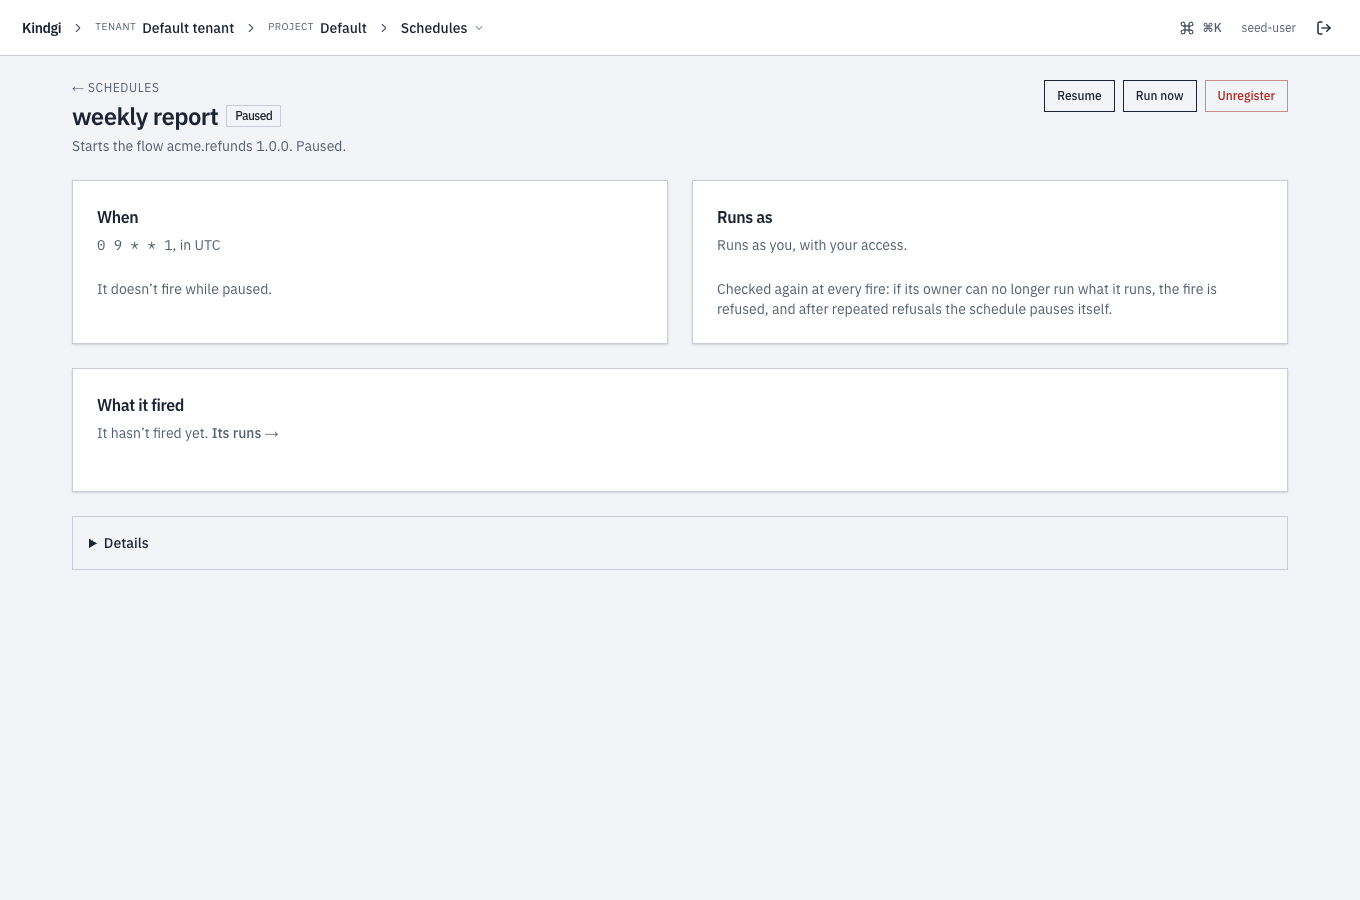
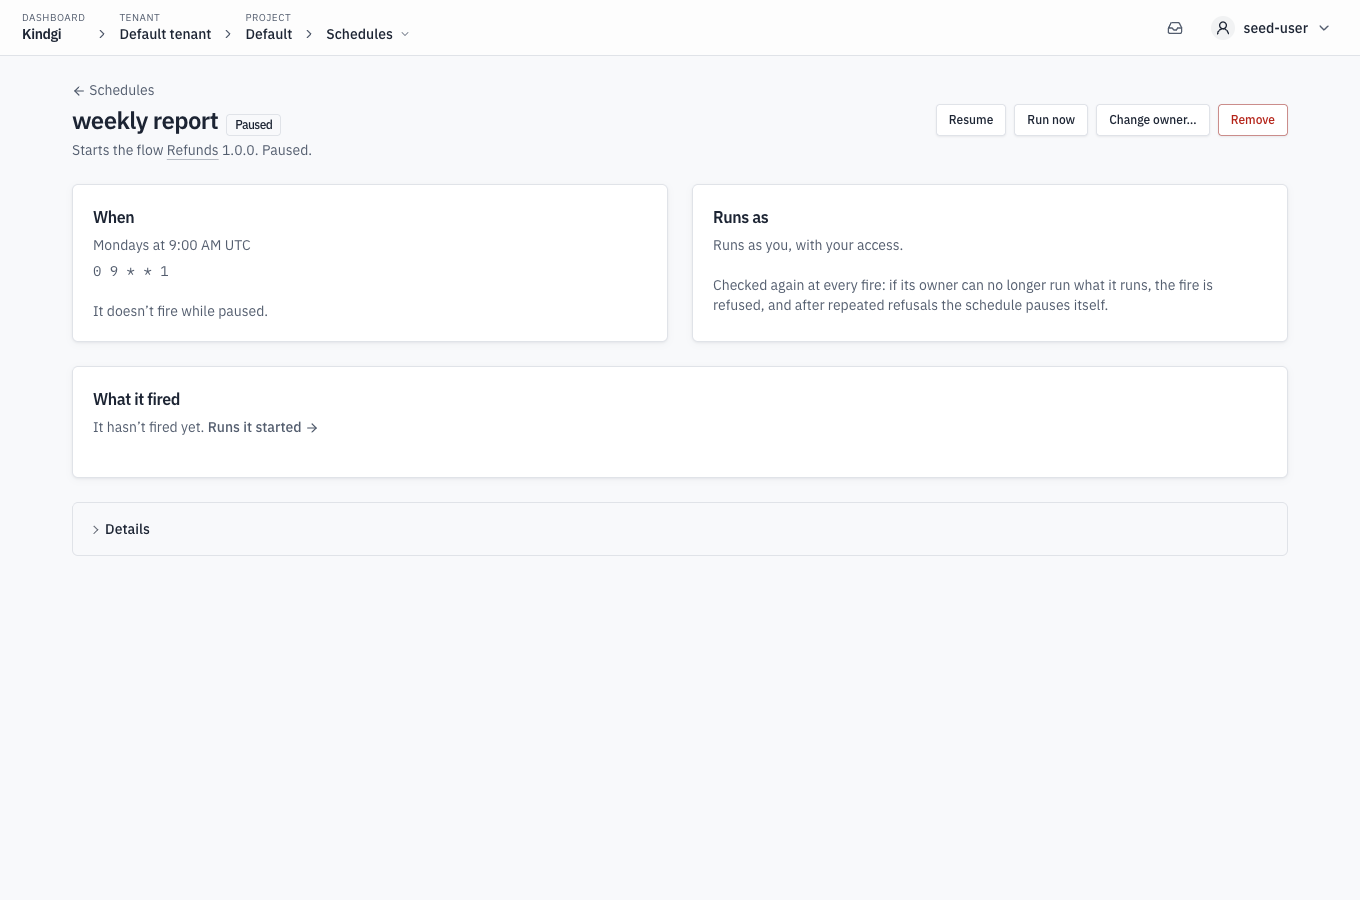
docs(site): the console's Times and Theme, and its webhooks and schedule pages as they read now
- Sign in to the console gains "The menu under your name": My access, Docs
  and the deployment's own links, Theme (System, Light or Dark), Times
  (Local with your city, or UTC) and Sign out. Each time names its zone, a
  few stay in UTC and say so, and the choice is kept in this browser.
- Webhook events: the console section is Outgoing webhooks, which has no
  headline and no longer says times are UTC. Remove takes the place of
  Unregister, with its dialog and the line an old address shows; Send again
  is a button on each delivery's row; and the page without a secrets store
  says "Outgoing webhooks aren't turned on here". webhooks-list.png,
  webhook-endpoint.png and webhooks-off.png are retaken.
- Run on a schedule: the list's Times line names Local (Toronto) and links
  the menu section; a schedule's page has Remove with its dialog; a run's
  Started by reads as the console shows it. schedule-fires.png,
  schedule-page.png, schedule-take-over.png and run-started-by-schedule.png
  are retaken.
- The webhooks guides' index and the operate page's console list call the
  page Outgoing webhooks.

diff --git a/site/src/content/docs/guides/sso/sign-in.md b/site/src/content/docs/guides/sso/sign-in.md
@@ -1,6 +1,6 @@
 ---
 title: Sign in to the console
-description: What a person sees on the console's sign-in page, from their email to the console, and what each message there means.
+description: What a person sees on the console's sign-in page, from their email to the console, what each message there means, and the menu under your name once you're in.
 sidebar:
   order: 1
 ---
@@ -95,6 +95,35 @@ keep the token.
 
 When the page says **There's no way to sign in here yet**, the deployment
 has no way in turned on. Ask whoever runs it.
+
+## The menu under your name
+
+Once you're in, your name is at the top right of every page. Its menu has:
+
+- who you're signed in as;
+- **My access**: what you may do, and how you have it
+  ([The console, by role](../../../deploy/authorization/#the-console-by-role));
+- **Docs**, and below it the links the deployment adds
+  ([Your own links in the console](../../../deploy/self-hosted/sign-in/#your-own-links-in-the-console));
+- **Theme:** **System**, **Light** or **Dark**. System, to start with,
+  follows your device's setting as it changes.
+- **Times:** **Local** with your city, such as **Local (Toronto)**, or
+  **UTC**. Local, to start with, shows times on your browser's clock.
+- **Sign out** ([Signing out](../sessions/#signing-out)).
+
+Each time names its zone either way, such as "25 Oct 2026, 1:08 AM EDT".
+Its clock reads 12 or 24 hours as your browser's language does: 12 in
+American English, 24 in British English, French or German. Only what the
+console shows changes: the runtime keeps and sends times in UTC, so the API
+and its clients see UTC. A few stay in UTC and say so: cost by day ("Spend
+by day (UTC)"), the project overview's "The last 7 days, by UTC day", and
+an Improve schedule's monthly cap ("A calendar month, UTC."). A schedule's
+cron reads in the schedule's own zone
+([Run on a schedule](../../runs/run-on-a-schedule/#in-the-console)).
+
+This browser keeps your Theme and Times, for you alone. Another browser, or
+one that keeps nothing, such as a private window, starts at System and
+Local.
 
 ## Next
 

diff --git a/site/src/content/docs/deploy/self-hosted/operate.md b/site/src/content/docs/deploy/self-hosted/operate.md
@@ -591,7 +591,7 @@ What to check before you upgrade, and what's different after:
     correcting runs, and [costs](../../../guides/observability/cost-per-run/#cost-in-the-console)
     for the project and each run. The tenant gets
     [Teams](../../authorization/#in-the-console-teams),
-    [Webhooks](../../../guides/webhooks/webhook-events/#in-the-console),
+    [Outgoing webhooks](../../../guides/webhooks/webhook-events/#in-the-console),
     [Sign-in](../../../guides/sso/#from-the-console), **My access** and its own
     costs. A page or action shows only to the roles that can use it
     ([The console, by role](../../authorization/#the-console-by-role)).

diff --git a/site/src/content/docs/guides/webhooks/index.md b/site/src/content/docs/guides/webhooks/index.md
@@ -26,7 +26,8 @@ cancelled.
 - [Test and replay deliveries](test-and-replay/): send a test event, see
   what was delivered, and send a failed delivery again.
 - [Webhook events and deliveries](webhook-events/): every event and what it
-  carries, how deliveries are retried, and the console's Webhooks page.
+  carries, how deliveries are retried, and the console's Outgoing webhooks
+  page.
 
 Requests are signed in the [Standard Webhooks](https://www.standardwebhooks.com)
 format, so a receiver in another language can use any Standard Webhooks
